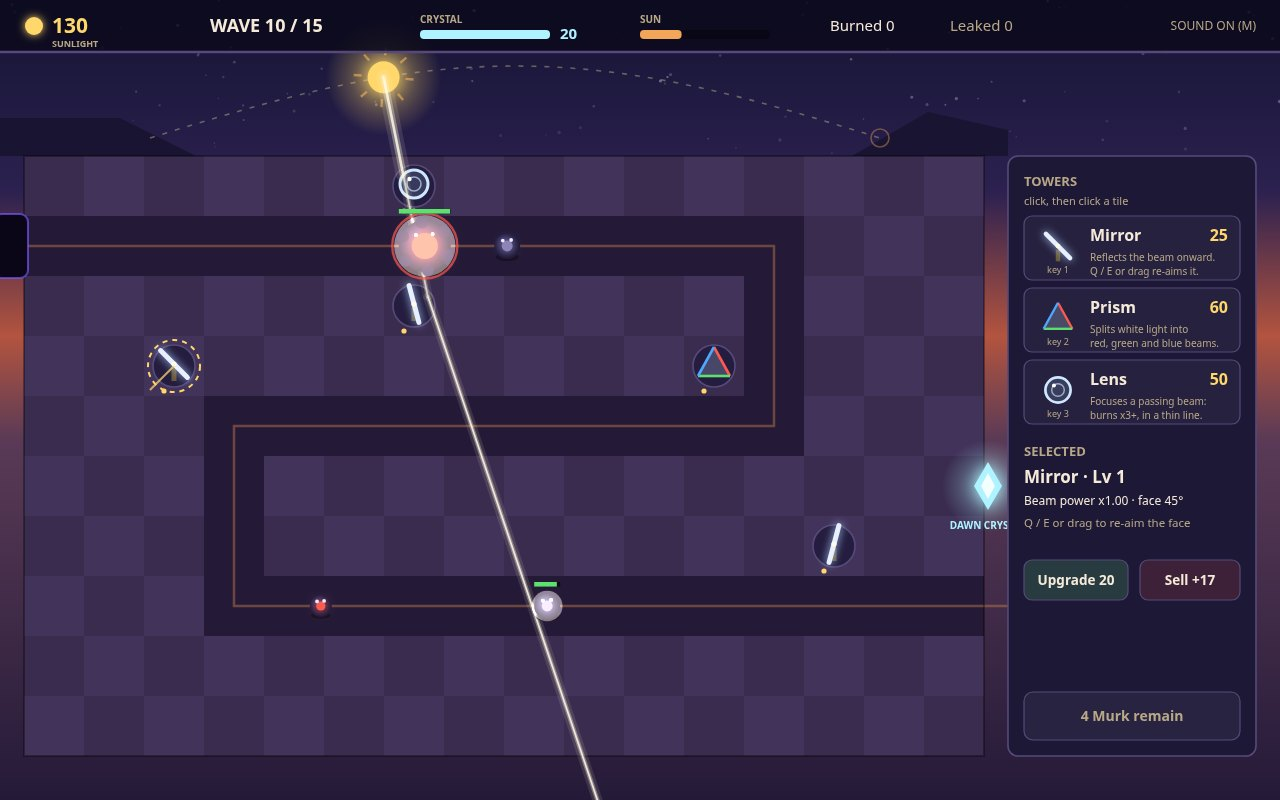
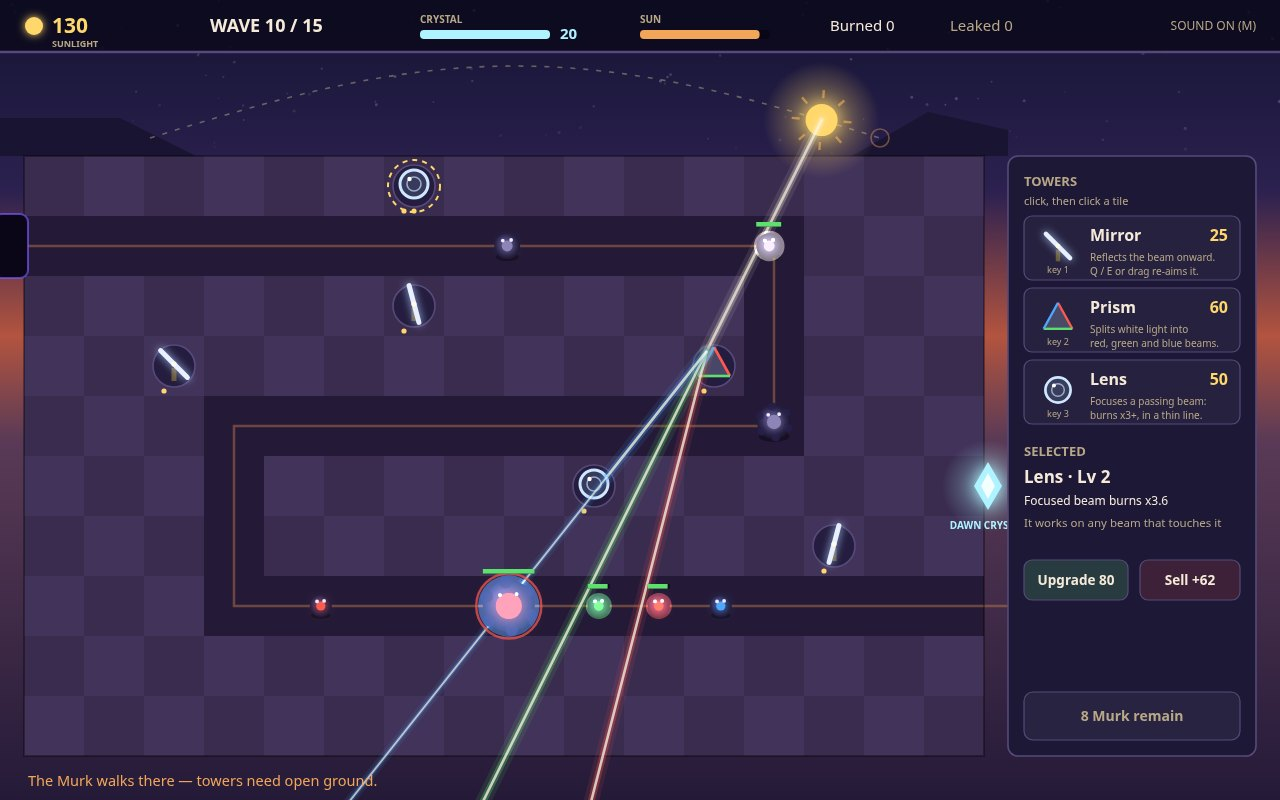
Audit pass: victory screenshot, denser boss shot, judge-outline declaration fixes

diff --git a/game/src/shots.js b/game/src/shots.js
@@ -1,4 +1,4 @@
-// The screenshot scenes behind ?shot=cover|prism|boss|dawn. Each scene builds a real
+// The screenshot scenes behind ?shot=cover|prism|boss|won. Each scene builds a real
 // position with the game's own actions — towers placed and upgraded through the same
 // calls a player makes, enemies spawned on the path — then searches a fixed grid of
 // sun positions for the one where the traced network crosses the path most, plants
@@ -189,11 +189,14 @@ function stagePrism(game) {
 function stageBoss(game) {
   const state = setupScene(game, 10);
   const samples = pathSamples(game.pathLine);
-  buildTower(game, 'lens', 6, 0, null, 2);
+  const lens = buildTower(game, 'lens', 6, 0, null, 2);
   buildTower(game, 'mirror', 6, 2, 75);
   buildTower(game, 'prism', 11, 3);
   buildTower(game, 'mirror', 13, 6, 105);
   buildTower(game, 'mirror', 2, 3, 45);
+  buildTower(game, 'mirror', 3, 6, 30);
+  buildTower(game, 'lens', 9, 5);
+  buildTower(game, 'mirror', 8, 7, 120);
   const bossScore = (segments, smp) => {
     let score = networkScore(segments, smp);
     for (const seg of segments) {
@@ -227,14 +230,22 @@ function stageBoss(game) {
   used.push(bossDist);
   plantOnCrossings(game, segments, samples, { max: 4, used });
   plantAt(game, 'shade', 500, used);
+  plantAt(game, 'gloam', 950, used);
   plantAt(game, 'emberWisp', 1750, used);
+  plantAt(game, 'tideWisp', 2150, used);
   state.sunlight = 130;
   settle(game);
+  if (lens) state.selectedId = lens.id;
 }
 
-/** 4-dawn: wave 14, a dense grown network, the upgrade panel open on a level-3 prism. */
-function stageDawn(game) {
-  const state = setupScene(game, 14);
+/**
+ * 4-victory: the dawn network of the old dawn scene, but the final wave is then
+ * genuinely fought: enemies planted on the crossings at half strength burn, leak
+ * or burst under the game's own step until its own wave-clear rule ends wave 15
+ * and raises the victory screen — real kills, real bounties, real leaks on it.
+ */
+function stageWon(game) {
+  const state = setupScene(game, 15);
   const samples = pathSamples(game.pathLine);
   buildTower(game, 'mirror', 2, 0, 45);
   buildTower(game, 'mirror', 5, 0, 105);
@@ -249,16 +260,20 @@ function stageDawn(game) {
   buildTower(game, 'mirror', 7, 8, 45);
   buildTower(game, 'lens', 12, 8);
   const { segments } = bestSunPosition(game, samples, networkScore);
-  const used = plantOnCrossings(game, segments, samples, { max: 8 });
-  plantAt(game, 'shade', 250, used);
-  plantAt(game, 'emberWisp', 620, used);
-  plantAt(game, 'splitter', 1050, used);
-  plantAt(game, 'gloam', 1500, used);
-  plantAt(game, 'verdantWisp', 1900, used);
-  plantAt(game, 'shade', 2280, used);
+  const used = plantOnCrossings(game, segments, samples, { max: 7, beefy: 0.35 });
+  plantAt(game, 'shade', 250, used, 0.35);
+  plantAt(game, 'emberWisp', 620, used, 0.35);
+  plantAt(game, 'splitter', 1050, used, 0.35);
+  plantAt(game, 'verdantWisp', 1650, used, 0.35);
+  plantAt(game, 'shade', 1450, used, 0.35);
   state.sunlight = 65;
-  if (hero) state.selectedId = hero.id;
-  settle(game);
+  // Fight it out under the game's own rules until the campaign is won.
+  let guard = 0;
+  while (state.screen === 'play' && guard < 120 / STEP) {
+    game.step(STEP);
+    guard += 1;
+  }
+  settle(game, 0.5);
   if (hero) state.selectedId = hero.id;
 }
 
@@ -266,6 +281,6 @@ function stageDawn(game) {
 export function stageShot(name, game) {
   if (name === 'prism') stagePrism(game);
   else if (name === 'boss') stageBoss(game);
-  else if (name === 'dawn') stageDawn(game);
+  else if (name === 'won') stageWon(game);
   else stageCover(game);
 }

diff --git a/game/src/main.js b/game/src/main.js
@@ -4,14 +4,14 @@
 // render, input); this file wires them together and owns the rules that cross between
 // them, like a splitter bursting into minis or a cleared wave paying its bonus.
 //
-// ?seed=N fixes the run's random stream. ?shot=cover|prism|boss|dawn (with &seed=N)
+// ?seed=N fixes the run's random stream. ?shot=cover|prism|boss|won (with &seed=N)
 // stages that screenshot scene instead of running the loop, paints it twice and sets
 // window.__shotReady. window.__sunforge exposes a small test hook for headless play.
 import {
   CRYSTAL_HP, START_SUNLIGHT, STEP, TOTAL_WAVES, buildPathLine, isPathCell,
 } from './config.js';
-import { createRandom } from './random.js';
 import { applyBeamDamage, traceBeams } from './beams.js';
+import { createRandom } from './random.js';
 import { aimMirror, createTower, rotateMirror, sellValue, upgradeCost, TOWER_TYPES } from './towers.js';
 import { createEnemy, enemyCoreHex, placeOnPath } from './enemies.js';
 import { buildSpawnSchedule, bossScaleForWave, hpScaleForWave, waveClearBonus, WAVES } from './waves.js';
@@ -20,11 +20,6 @@ import { createAudio } from './audio.js';
 import { createRenderer } from './render.js';
 import { createInput } from './input.js';
 import { stageShot } from './shots.js';
-
-/** The longest frame the loop catches up on; a longer stall (a hidden tab) is dropped, not replayed. */
-const MAX_FRAME = 0.25;
-/** Particle ceiling: past this, new bursts are dropped so a boss death cannot flood the frame. */
-const MAX_PARTICLES = 420;
 
 /**
  * Create a whole game at `seed`: fresh state plus the actions that change it. The
@@ -335,6 +330,11 @@ export function createGame(seed) {
     upgradeSelected, sellSelected, startWave, spawnEnemyAt, selectedTower, step,
   };
 }
+
+/** The longest frame the loop catches up on; a longer stall (a hidden tab) is dropped, not replayed. */
+const MAX_FRAME = 0.25;
+/** Particle ceiling: past this, new bursts are dropped so a boss death cannot flood the frame. */
+const MAX_PARTICLES = 420;
 
 // ---------------------------------------------------------------------------
 // Browser boot: input, the render loop, screenshot staging, and the test hook.

diff --git a/game/index.html b/game/index.html
@@ -9,12 +9,13 @@
   body { display: flex; align-items: center; justify-content: center; }
   /* The game is a fixed 1280x800 stage, scaled to the largest size the window allows. */
   #game { width: min(100vw, 160vh); aspect-ratio: 8 / 5; display: block; touch-action: none; }
-  /* Read aloud, never shown: the status line screen readers announce. */
-  #status { position: absolute; width: 1px; height: 1px; overflow: hidden; clip-path: inset(50%); white-space: nowrap; }
+  /* Read aloud, never shown: the game's description and its live status line. */
+  #status, #about { position: absolute; width: 1px; height: 1px; overflow: hidden; clip-path: inset(50%); white-space: nowrap; }
 </style>
 </head>
 <body>
-<canvas id="game" width="1280" height="800" aria-label="SUNFORGE: a tower defense where you bend the sun's beam with mirrors, prisms and lenses to burn the Murk before it eats the Dawn Crystal"></canvas>
+<canvas id="game" width="1280" height="800" aria-labelledby="about"></canvas>
+<p id="about">SUNFORGE: a sunbeam tower defense — bend the sun's beam with mirrors, prisms and lenses to burn the Murk before it eats the Dawn Crystal.</p>
 <p id="status" role="status" aria-live="polite"></p>
 <script type="module" src="./src/main.js"></script>
 </body>

diff --git a/README.md b/README.md
@@ -47,7 +47,7 @@ SUNFORGE is a sunbeam tower defense in plain JavaScript — no library, no build
 node serve.ts
 ```
 
-Then open http://localhost:8080 to play. The game is static files, so opening `game/index.html` in a desktop browser works too. `node main.ts` regenerates the deterministic `dossier.json` that describes the game to the grader (written to `$MAKEFUN_OUTPUT_DIR`, or `/output` by default).
+Then open http://localhost:8080 to play. The game is static files, so any static file server pointed at `game/` works too (ES modules need http, not file://). `node main.ts` regenerates the deterministic `dossier.json` that describes the game to the grader (written to `$MAKEFUN_OUTPUT_DIR`, or `/output` by default).
 
 ## License
 
